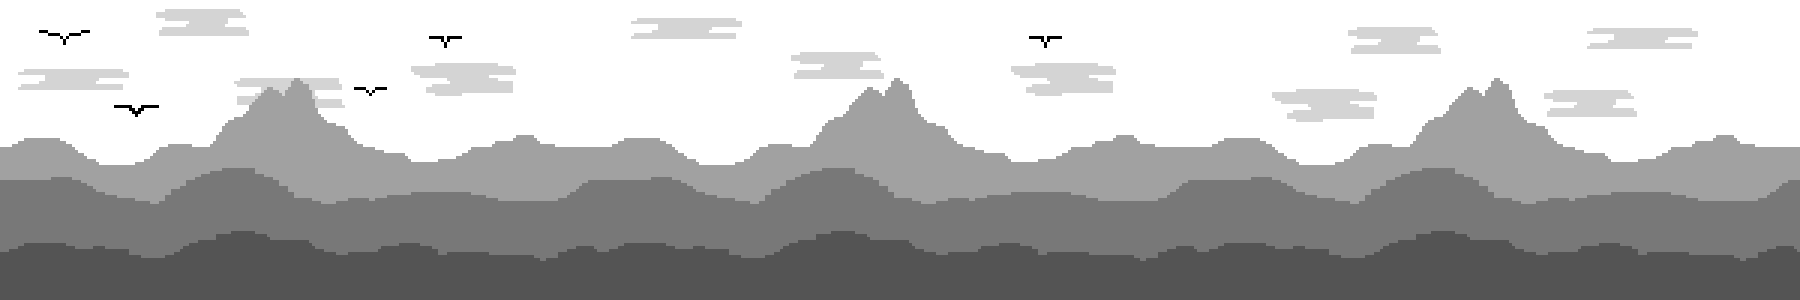
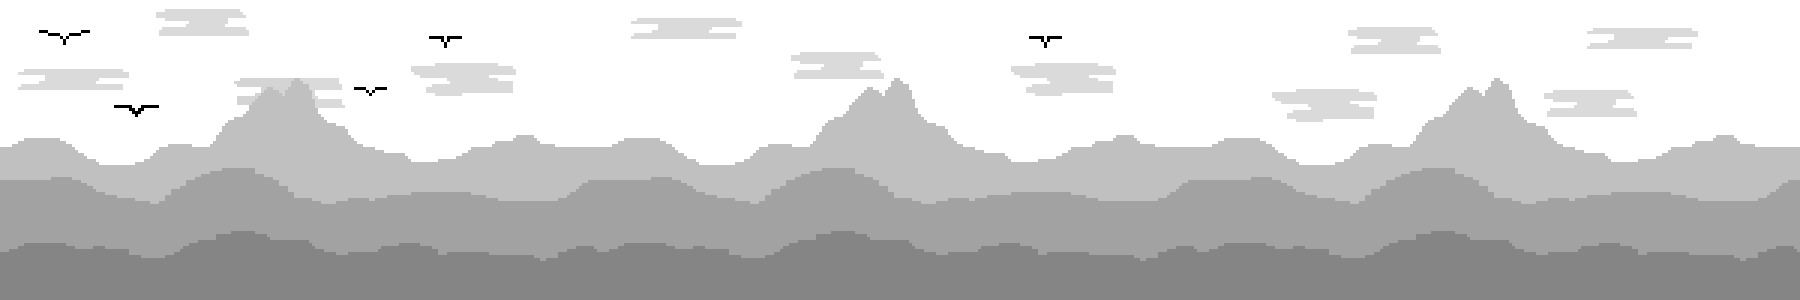
fixes score and lightens lv 2 background

diff --git a/level_three.py b/level_three.py
@@ -53,6 +53,7 @@ class Level_Three(State):
         self.move_ground(display)
         self.player.render_player(display)
         self.render_obstacles(display)
+        self.render_score(display)
 
     def move_ground(self,display):
         display.blit(self.ground_img, (self.x_pos_bg, self.y_pos_bg))
@@ -87,7 +88,7 @@ class Level_Three(State):
             elif randint(0,2) == 2:
                 new_obst = FlyingObstacle2(FLYING_OBST2,self.obstacle_group)
                 new_obst2 = GroundObstacle(LARGE_OBST2[randint(0,2)],self.obstacle_group)
-                new_obst2.rect.x = new_obst.X_POS + randint(400,1000)
+                new_obst2.rect.x = new_obst.X_POS + randint(400,2000)
             elif randint(0,1) == 1:
                 new_obst = FlyingObstacle2(FLYING_OBST2,self.obstacle_group)
                 new_obst2 = Mine2(SMALL_OBST2,self.obstacle_group)

diff --git a/level_four.py b/level_four.py
@@ -53,6 +53,7 @@ class Level_Four(State):
         self.move_ground(display)
         self.player.render_player(display)
         self.render_obstacles(display)
+        self.render_score(display)
 
     def move_ground(self,display):
         display.blit(self.ground_img, (self.x_pos_bg, self.y_pos_bg))
@@ -130,4 +131,4 @@ class Level_Four(State):
            self.game.lvl_four_score = self.points
 
     def render_score(self, display):
-        self.game.draw_text('Score  ' + str(self.points),30,display,display.get_width()- 200,100)
+        self.game.draw_text('Score  ' + str(self.points),30,display,display.get_width()- 200,100,(255,255,255))

diff --git a/game.py b/game.py
@@ -91,10 +91,10 @@ class Game():
             self.actions[action] = False
         
     
-    def draw_text(self, text,size,display, x,y):
+    def draw_text(self, text,size,display, x,y,color=(0,0,0)):
     
         font = pygame.font.Font('Assets/ARCADECLASSIC.TTF', size)
-        text_surface = font.render(text,True,self.BLACK)
+        text_surface = font.render(text,True,color)
         text_rect = text_surface.get_rect()
         text_rect.center = (x,y)
         display.blit(text_surface,text_rect)

diff --git a/level_two.py b/level_two.py
@@ -52,6 +52,7 @@ class Level_Two(State):
         self.move_ground(display)
         self.player.render_player(display)
         self.render_obstacles(display)
+        self.render_score(display)
 
     def move_ground(self,display):
         display.blit(self.ground_img, (self.x_pos_bg, self.y_pos_bg))
